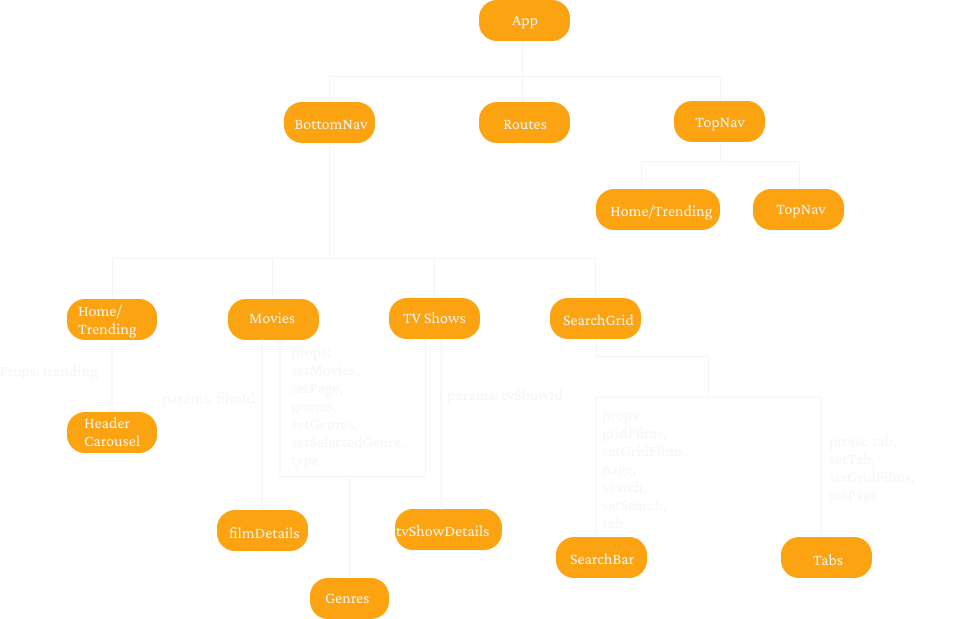
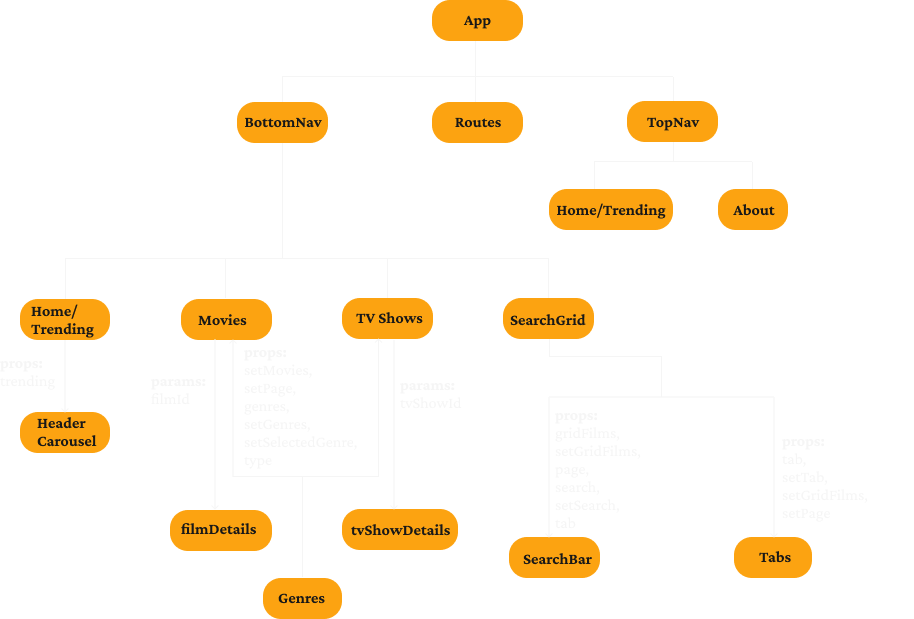
About Page styles and links

diff --git a/src/components/views/about/About.jsx b/src/components/views/about/About.jsx
@@ -5,12 +5,27 @@ import {
   Grid,
   Avatar,
   Typography,
+  IconButton,
 } from "@mui/material";
 import Sebastian from "../../../img/sebastian_sosa_avatar.jpg";
+import HackAcademy from "../../../img/Logos/hack_academy.jpg";
+import TMDB from "../../../img/Logos/the_movie_database.svg";
 import React from "react";
 import ComponentDiagram from "../../../img/component_diagram.png";
+import { FontAwesomeIcon } from "@fortawesome/react-fontawesome";
+import {
+  faHtml5,
+  faCss3,
+  faJs,
+  faReact,
+  faLinkedin,
+  faGithub,
+} from "@fortawesome/free-brands-svg-icons";
+import { Link, useNavigate } from "react-router-dom";
+import { useTheme } from "@emotion/react";
 
 const About = () => {
+  const theme = useTheme();
   return (
     <>
       <CssBaseline />
@@ -33,6 +48,7 @@ const About = () => {
           width: "100%",
           zIndex: "-100",
           opacity: "0.05",
+          top: "120vh",
           background: `linear-gradient(to top, transparent 80%, #181818), linear-gradient(to bottom, transparent 80%, #181818), url(https://i.ibb.co/wByQ4hR/Films-Grid.jpg)`,
           backgroundRepeat: "repeat",
           backgroundSize: "cover",
@@ -40,13 +56,63 @@ const About = () => {
       ></Box>
       <Container>
         <Grid container my={5}>
-          <Grid item xs={12} md={4}>
-            <Box sx={{ width: "200px", height: "200px" }}>
+          <Grid
+            item
+            xs={12}
+            md={4}
+            display="flex"
+            justifyContent="center"
+            alignItems="center"
+          >
+            <Box
+              sx={{
+                width: "200px",
+                height: "200px",
+              }}
+            >
               <Avatar
                 src={Sebastian}
                 alt="Sebastian Sosa Avatar"
                 style={{ width: "100%", height: "100%" }}
               />
+              <Box textAlign="center" mt={2}>
+                <IconButton
+                  sx={{
+                    color: "white",
+                    transition: "0.1s",
+                    ":hover": {
+                      color: "primary.main",
+                      transform: "translate(0,-3px)",
+                    },
+                  }}
+                  onClick={() =>
+                    window.open(
+                      "https://www.linkedin.com/in/sebastian-sosa-cinotti/",
+                      "_blank"
+                    )
+                  }
+                >
+                  <FontAwesomeIcon icon={faLinkedin} className="fa-md" />
+                </IconButton>
+                <IconButton
+                  sx={{
+                    color: "white",
+                    transition: "0.1s",
+                    ":hover": {
+                      color: "primary.main",
+                      transform: "translate(0,-3px)",
+                    },
+                  }}
+                  onClick={() =>
+                    window.open(
+                      "https://github.com/1986SebastianSosa",
+                      "_blank"
+                    )
+                  }
+                >
+                  <FontAwesomeIcon icon={faGithub} className="fa-md" />
+                </IconButton>
+              </Box>
             </Box>
           </Grid>
           <Grid item xs={12} md={8}>
@@ -75,6 +141,8 @@ const About = () => {
               skills to build professional full stack web applications
             </Typography>
           </Grid>
+        </Grid>
+        <Grid container spacing={5}>
           <Grid item xs={12} md={8}>
             <Typography variant="h2" color="primary">
               About the Project
@@ -95,12 +163,67 @@ const About = () => {
               The main technologies used were <b>React.js</b> and{" "}
               <b>Material UI</b>. I decided not to use Redux because I didn't
               really see the need to if I managed to keep the component
-              structure in a way that made the information flow as simple as
-              posible, which I think I did.
+              structure in a way that made the information flow as simple and
+              straightforward as posible.
             </Typography>
           </Grid>
+          <Grid item xs={12} md={4}>
+            <Box display="flex" justifyContent="space-between">
+              <Box
+                sx={{ width: "100px", height: "200px", textAlign: "center" }}
+              >
+                <img
+                  src={HackAcademy}
+                  alt="Hack Academy"
+                  style={{ width: "100%", height: "100px" }}
+                />
+                <h4>Hack Academy</h4>
+              </Box>
+              <Box
+                sx={{ width: "100px", height: "200px", textAlign: "center" }}
+              >
+                <img
+                  src={TMDB}
+                  alt="The Movie Database"
+                  style={{
+                    width: "100%",
+                    height: "100px",
+                  }}
+                />
+                <h4>The Movie Database</h4>
+              </Box>
+            </Box>
+            <Box width="100%" margin="auto" textAlign="center">
+              <h4>Technologies</h4>
+              <Box
+                sx={{
+                  mt: 3,
+                  width: "100%",
+                  display: "flex",
+                  justifyContent: "space-between",
+                }}
+              >
+                <Box>
+                  <FontAwesomeIcon icon={faHtml5} className="fa-2xl" />
+                  <Typography variant="body2">HTML</Typography>
+                </Box>
+                <Box>
+                  <FontAwesomeIcon icon={faCss3} className="fa-2xl" />
+                  <Typography variant="body2">CSS</Typography>
+                </Box>
+                <Box>
+                  <FontAwesomeIcon icon={faJs} className="fa-2xl" />
+                  <Typography variant="body2">JavaScript</Typography>
+                </Box>
+                <Box>
+                  <FontAwesomeIcon icon={faReact} className="fa-2xl" />
+                  <Typography variant="body2">React.js</Typography>
+                </Box>
+              </Box>
+            </Box>
+          </Grid>
         </Grid>
-        <Grid item xs={12} md={4}>
+        <Grid item xs={12} md={4} mt={5} mb="10rem">
           <img src={ComponentDiagram} alt="" style={{ width: "100%" }} />
         </Grid>
       </Container>

diff --git a/src/components/partials/botNav/BottomNav.jsx b/src/components/partials/botNav/BottomNav.jsx
@@ -20,7 +20,10 @@ export default function BottomNav() {
       <BottomNavigation
         showLabels
         value={value}
-        sx={{ backgroundColor: "background.default" }}
+        sx={{
+          backgroundColor: "background.default",
+          py: "2rem",
+        }}
         onChange={(event, newValue) => {
           setValue(newValue);
         }}

diff --git a/src/theme.js b/src/theme.js
@@ -11,7 +11,7 @@ const theme = createTheme({
       main: "#14213d",
       shade: "#949494",
     },
-    text: { primary: "#e5e5e5", secondary: "#14213d" },
+    text: { primary: "#e5e5e5", secondary: "#181818" },
     background: { default: "#181818", secondary: "#e5e5e5" },
   },
   typography: {

diff --git a/src/components/partials/botNav/bottomNav.css b/src/components/partials/botNav/bottomNav.css
@@ -3,4 +3,6 @@
   position: fixed;
   bottom: 0;
   width: 100%;
+  box-shadow: 0px 2px 4px -1px rgba(0, 0, 0, 0.2),
+    0px 4px 5px 7px rgba(0, 0, 0, 0.14), 0px 1px 10px 7px rgba(0, 0, 0, 0.12);
 }
